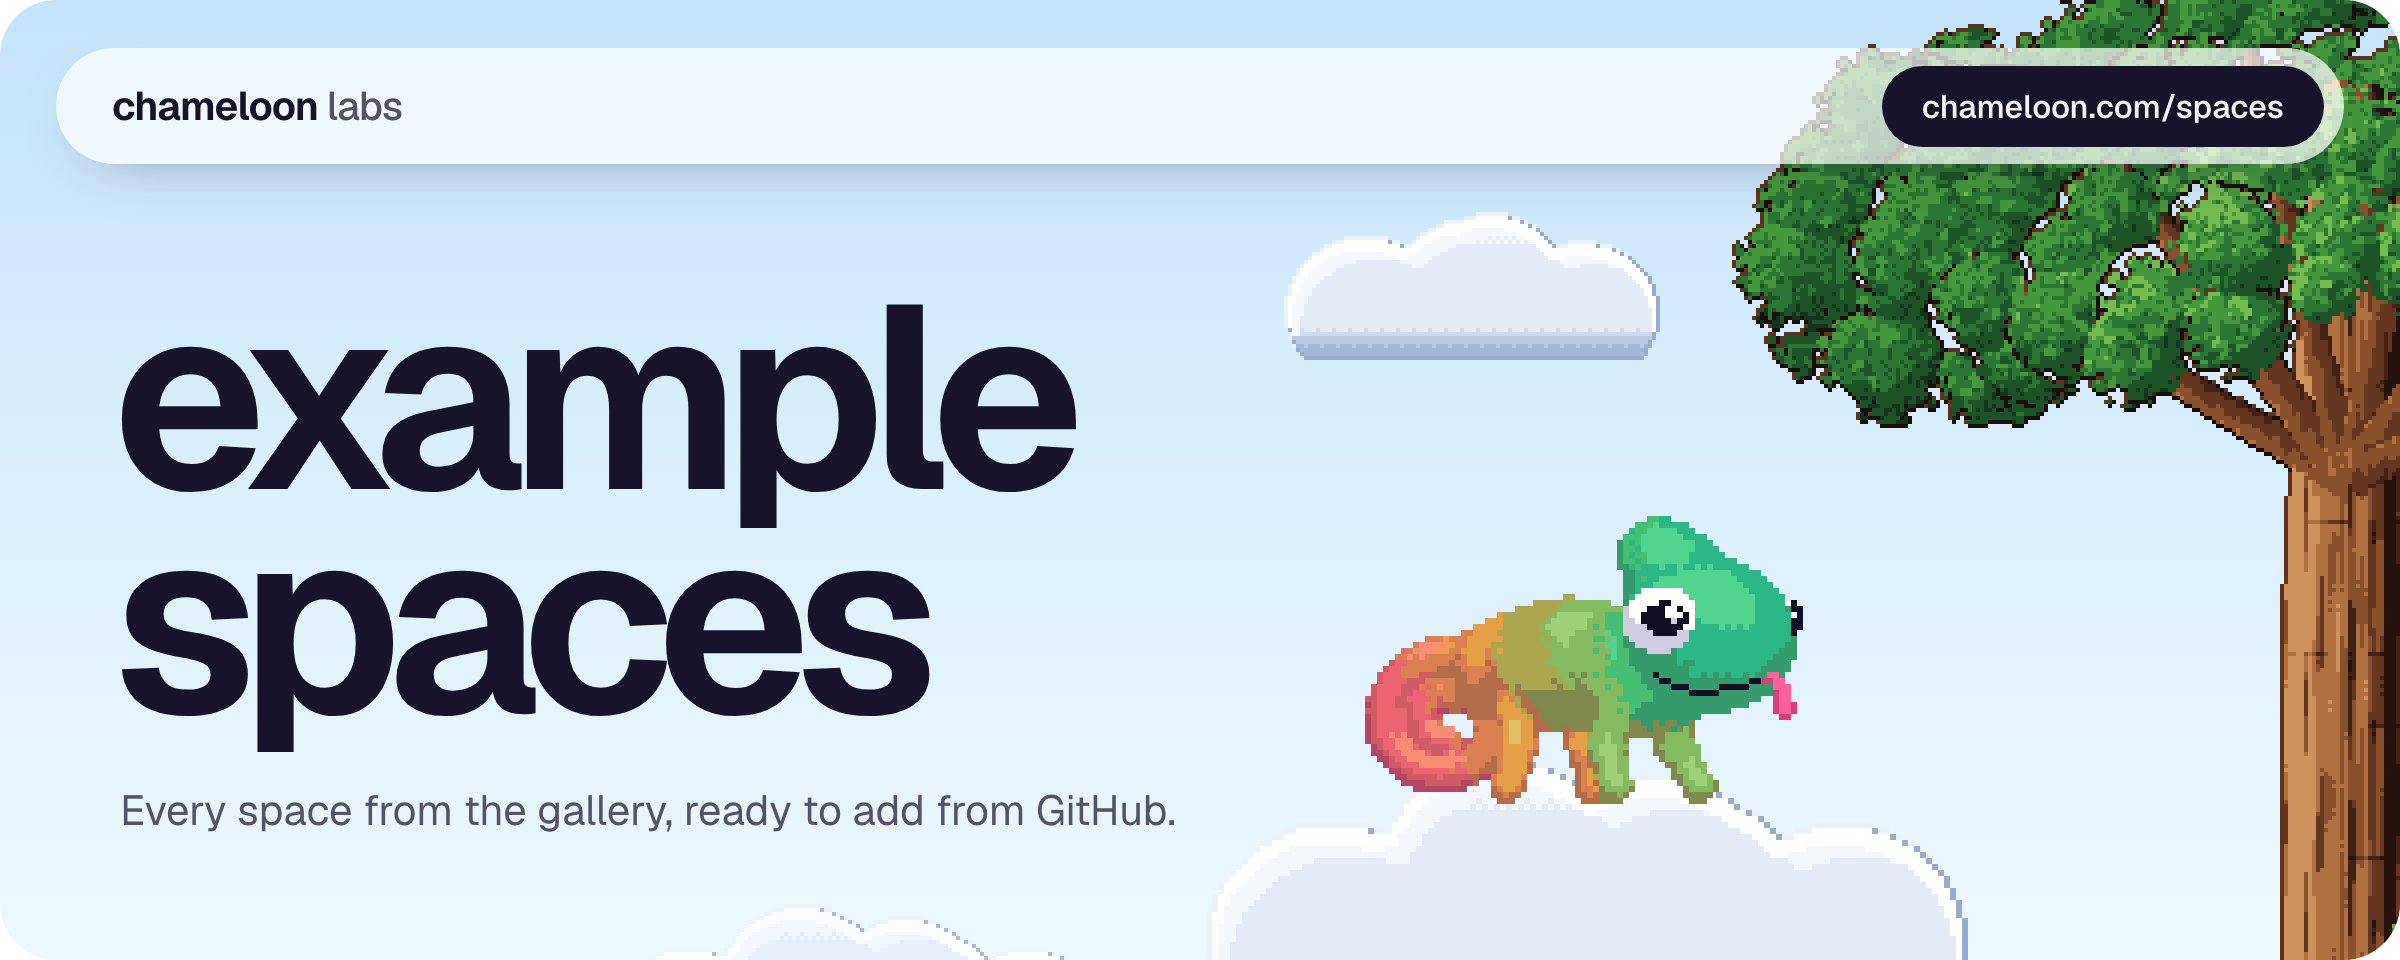
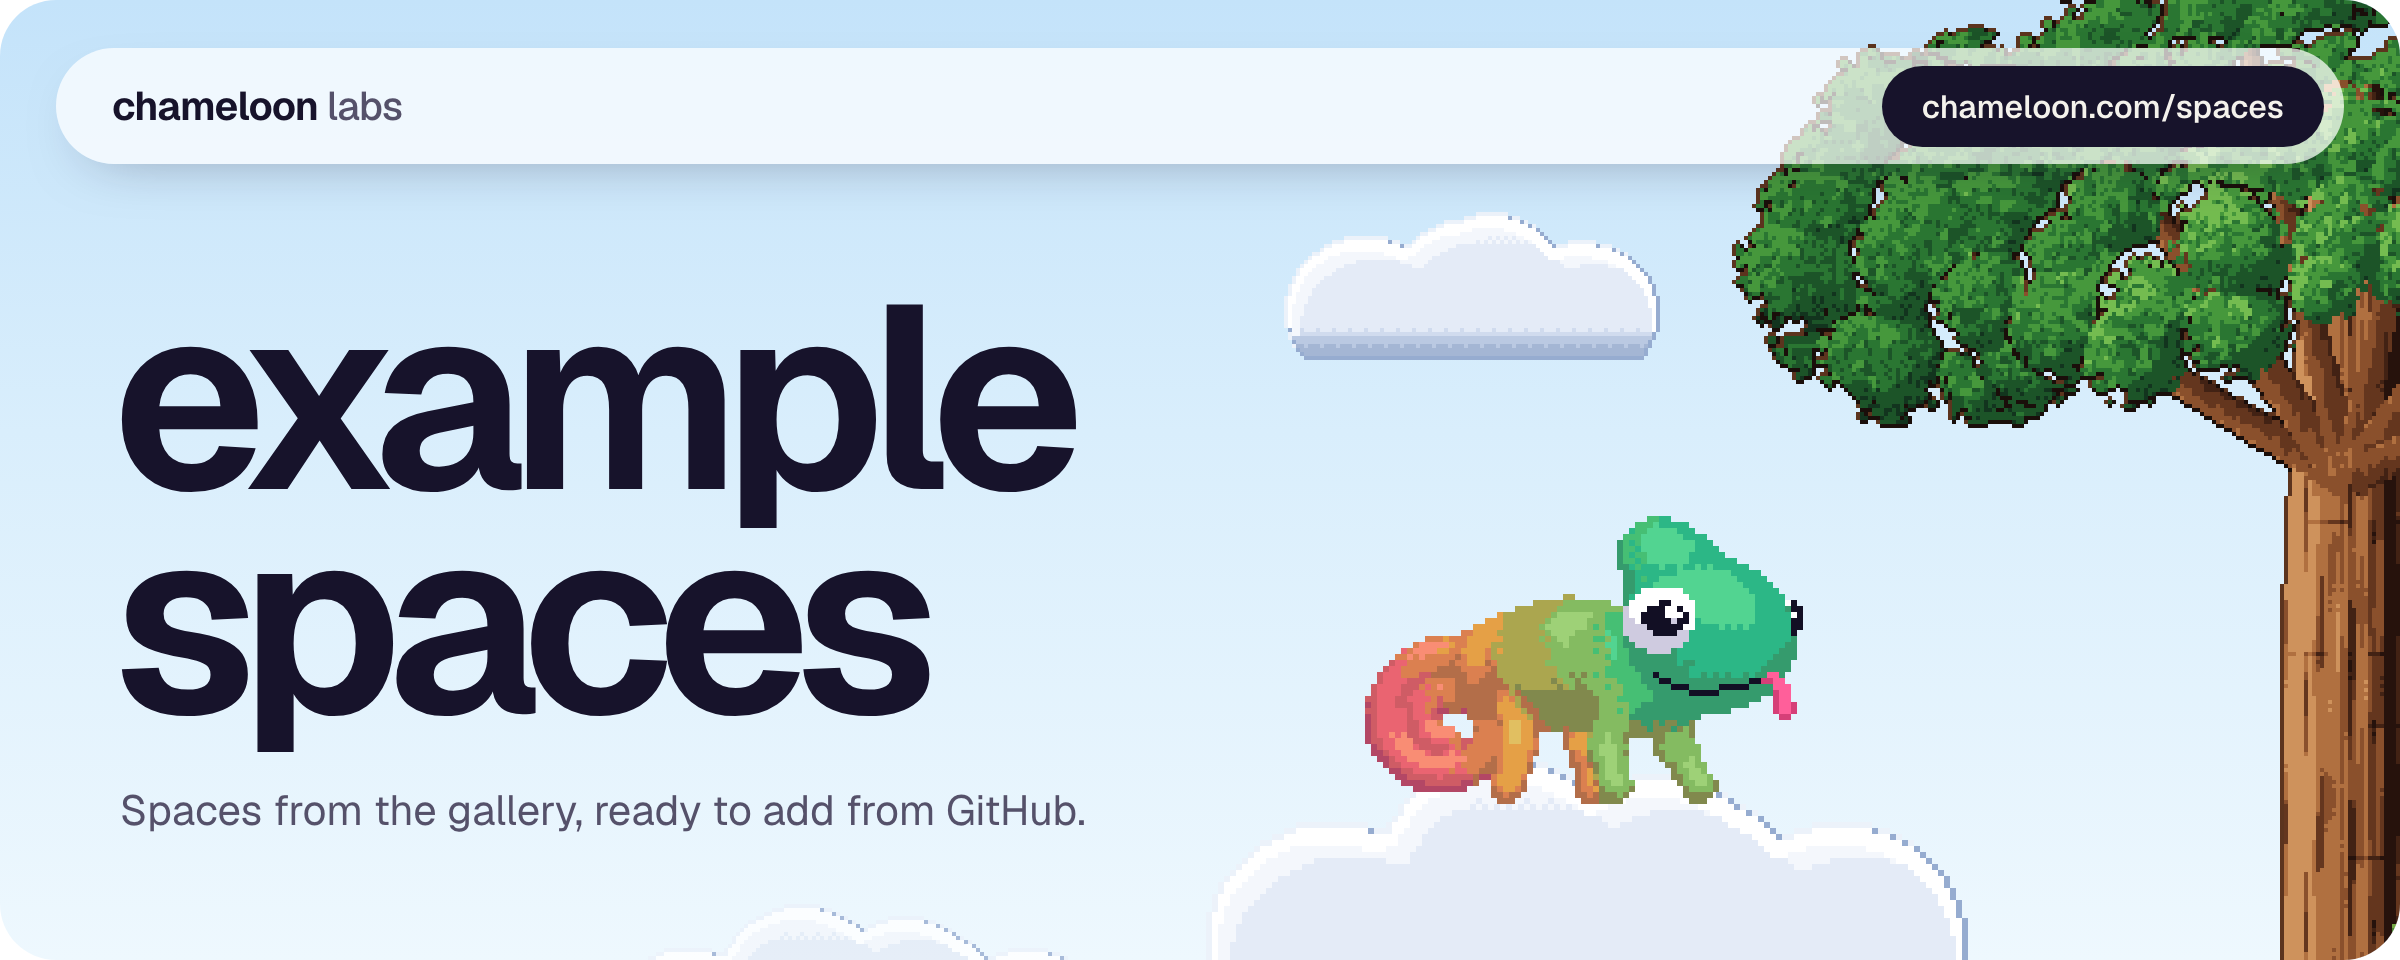
Update from chameloon@4d20044

Changed region(s): [[0.0625, 0.8125, 0.5, 0.875]]

diff --git a/README.md b/README.md
@@ -1,11 +1,11 @@
-<a href="https://chameloon.com/spaces/"><img src=".github/readme/banner.png" width="100%" alt="example spaces, by chameloon labs. Every space from the gallery, ready to add from GitHub. The pixel chameleon stands on a cloud, happy." /></a>
+<a href="https://chameloon.com/spaces/"><img src=".github/readme/banner.png" width="100%" alt="example spaces, by chameloon labs. Spaces from the gallery, ready to add from GitHub. The pixel chameleon stands on a cloud, happy." /></a>
 
 <p align="center">
   <a href="https://chameloon.com/spaces/"><img src=".github/readme/button-gallery.png" height="52" alt="See the gallery" /></a>
   <a href="https://chameloon.com/docs/"><img src=".github/readme/button-docs.png" height="52" alt="Read the docs" /></a>
 </p>
 
-Every space from the [Chameloon gallery](https://chameloon.com/spaces/), one folder each. A space is a `space.json` and a few
+Example spaces from the [Chameloon gallery](https://chameloon.com/spaces/), one folder each. A space is a `space.json` and a few
 pages in OpenUI Lang. It runs on your iPhone, offline: its data stays in its own database there.
 
 ## Add one to your phone
@@ -15,29 +15,27 @@ lists the spaces in it; pick one. To add one space directly, paste its folder's 
 `github.com/Chameloon-Labs/spaces/tree/main/habits`.
 
 The app shows where a space comes from and what it may use before anything is installed. When a space here gets a new
-`version`, the app offers the update. Adding from GitHub needs Chameloon 1.2 or later; with an older version, add
-them from the [gallery](https://chameloon.com/spaces/).
+`version`, the app offers the update. Adding from GitHub comes with Chameloon 1.2; until then, add them from the
+[gallery](https://chameloon.com/spaces/).
 
 ## The spaces
 
-| Space | What it does | Links |
-|---|---|---|
-| <img src="bikes/img/icon.png" width="28" height="28" alt="" /> [**Bike log**](bikes/) | Every ride on every bike: this week's km, planned rides to tick off, and when each bike is due for service. | [bikes](bikes/) · [on chameloon.com](https://chameloon.com/spaces/bikes/) |
-| <img src="budget/img/icon.png" width="28" height="28" alt="" /> [**Budget**](budget/) | What you spend this month, by category, against your own budget. Never leaves this phone. | [budget](budget/) · [on chameloon.com](https://chameloon.com/spaces/budget/) |
-| <img src="focus/img/icon.png" width="28" height="28" alt="" /> [**Focus**](focus/) | Start a focus block, put the phone down, and get a nudge when it ends. Sessions and streak stay on this phone. | [focus](focus/) · [on chameloon.com](https://chameloon.com/spaces/focus/) |
-| <img src="habits/img/icon.png" width="28" height="28" alt="" /> [**Habits**](habits/) | Small daily habits, ticked off in a tap. Streaks and reminders stay on this phone. | [habits](habits/) · [on chameloon.com](https://chameloon.com/spaces/habits/) |
-| <img src="jungle/img/icon.png" width="28" height="28" alt="" /> [**Plant Panic**](jungle/) | Plant rescue for a very chaotic household: who is thirsty, how healthy everyone is, and plant number 5 must survive. | [jungle](jungle/) · [on chameloon.com](https://chameloon.com/spaces/jungle/) |
-| <img src="myday/img/icon.png" width="28" height="28" alt="" /> [**My Day**](myday/) | One calm plan for the whole day: morning routine, the market list, today's spending and tonight's garden party. | [myday](myday/) · [on chameloon.com](https://chameloon.com/spaces/myday/) |
-| [**Parked**](parked/) | Where did I park? One tap saves the spot, Maps takes you back. Never leaves this phone. | [parked](parked/) · [on chameloon.com](https://chameloon.com/spaces/parked/) |
-| <img src="petcare/img/icon.png" width="28" height="28" alt="" /> [**Pet care**](petcare/) | Meals, medicine and vet dates for every pet. One tap when you fed them, a reminder when something is due. | [petcare](petcare/) · [on chameloon.com](https://chameloon.com/spaces/petcare/) |
-| <img src="plants/img/icon.png" width="28" height="28" alt="" /> [**Plants**](plants/) | Who needs water today. A photo of each plant and a nudge when it's thirsty. | [plants](plants/) · [on chameloon.com](https://chameloon.com/spaces/plants/) |
-| <img src="pushups/img/icon.png" width="28" height="28" alt="" /> [**30-Day Push-ups**](pushups/) | A 30-day push-up challenge with friends: log reps with one big button, keep the streak, watch the leaderboard. | [pushups](pushups/) · [on chameloon.com](https://chameloon.com/spaces/pushups/) |
-| <img src="showcase/img/icon.png" width="28" height="28" alt="" /> [**Showcase**](showcase/) | Every component a space can draw and every phone feature it can ask for, on real data. | [showcase](showcase/) · [on chameloon.com](https://chameloon.com/spaces/showcase/) |
-| <img src="subscriptions/img/icon.png" width="28" height="28" alt="" /> [**Subscriptions**](subscriptions/) | Every subscription on one page: what it costs a month and a year, what renews next, and a reminder before it does. | [subscriptions](subscriptions/) · [on chameloon.com](https://chameloon.com/spaces/subscriptions/) |
-| <img src="teamday/img/icon.png" width="28" height="28" alt="" /> [**Team Day**](teamday/) | Who is in, remote or out sick today, with their excuses, and the 3 pm cake party. | [teamday](teamday/) · [on chameloon.com](https://chameloon.com/spaces/teamday/) |
-| <img src="timeclock/img/icon.png" width="28" height="28" alt="" /> [**Time clock**](timeclock/) | Start work, break, business trip and end of day: one tap from the Lock Screen or Shortcuts. | [timeclock](timeclock/) · [on chameloon.com](https://chameloon.com/spaces/timeclock/) |
-| <img src="warranty/img/icon.png" width="28" height="28" alt="" /> [**Warranty locker**](warranty/) | Receipts and warranty dates in one place. A reminder before a warranty ends, so you still have time to claim. | [warranty](warranty/) · [on chameloon.com](https://chameloon.com/spaces/warranty/) |
-| <img src="water/img/icon.png" width="28" height="28" alt="" /> [**Water**](water/) | Tap a glass, fill the ring. A week chart and gentle reminders through the day, all on this phone. | [water](water/) · [on chameloon.com](https://chameloon.com/spaces/water/) |
+| | Space | What it does |
+|:-:|---|---|
+| <a href="bikes/"><img src="bikes/img/icon.png" width="44" height="44" alt="" /></a> | [**Bike log**](bikes/) | Every ride on every bike: this week's km, planned rides to tick off, and when each bike is due for service. |
+| <a href="budget/"><img src="budget/img/icon.png" width="44" height="44" alt="" /></a> | [**Budget**](budget/) | What you spend this month, by category, against your own budget. Never leaves this phone. |
+| <a href="focus/"><img src="focus/img/icon.png" width="44" height="44" alt="" /></a> | [**Focus**](focus/) | Start a focus block, put the phone down, and get a nudge when it ends. Sessions and streak stay on this phone. |
+| <a href="habits/"><img src="habits/img/icon.png" width="44" height="44" alt="" /></a> | [**Habits**](habits/) | Small daily habits, ticked off in a tap. Streaks and reminders stay on this phone. |
+| <a href="jungle/"><img src="jungle/img/icon.png" width="44" height="44" alt="" /></a> | [**Plant Panic**](jungle/) | Plant rescue for a very chaotic household: who is thirsty, how healthy everyone is, and plant number 5 must survive. |
+| <a href="myday/"><img src="myday/img/icon.png" width="44" height="44" alt="" /></a> | [**My Day**](myday/) | One calm plan for the whole day: morning routine, the market list, today's spending and tonight's garden party. |
+| <a href="parked/"><img src=".github/readme/icons/parked.svg" width="44" height="44" alt="" /></a> | [**Parked**](parked/) | Where did I park? One tap saves the spot, Maps takes you back. Never leaves this phone. |
+| <a href="petcare/"><img src="petcare/img/icon.png" width="44" height="44" alt="" /></a> | [**Pet care**](petcare/) | Meals, medicine and vet dates for every pet. One tap when you fed them, a reminder when something is due. |
+| <a href="plants/"><img src="plants/img/icon.png" width="44" height="44" alt="" /></a> | [**Plants**](plants/) | Who needs water today. A photo of each plant and a nudge when it's thirsty. |
+| <a href="showcase/"><img src="showcase/img/icon.png" width="44" height="44" alt="" /></a> | [**Showcase**](showcase/) | Every component a space can draw and every phone feature it can ask for, on real data. |
+| <a href="subscriptions/"><img src="subscriptions/img/icon.png" width="44" height="44" alt="" /></a> | [**Subscriptions**](subscriptions/) | Every subscription on one page: what it costs a month and a year, what renews next, and a reminder before it does. |
+| <a href="timeclock/"><img src="timeclock/img/icon.png" width="44" height="44" alt="" /></a> | [**Time clock**](timeclock/) | Start work, break, business trip and end of day: one tap from the Lock Screen or Shortcuts. |
+| <a href="warranty/"><img src="warranty/img/icon.png" width="44" height="44" alt="" /></a> | [**Warranty locker**](warranty/) | Receipts and warranty dates in one place. A reminder before a warranty ends, so you still have time to claim. |
+| <a href="water/"><img src="water/img/icon.png" width="44" height="44" alt="" /></a> | [**Water**](water/) | Tap a glass, fill the ring. A week chart and gentle reminders through the day, all on this phone. |
 
 ## Make your own
 
